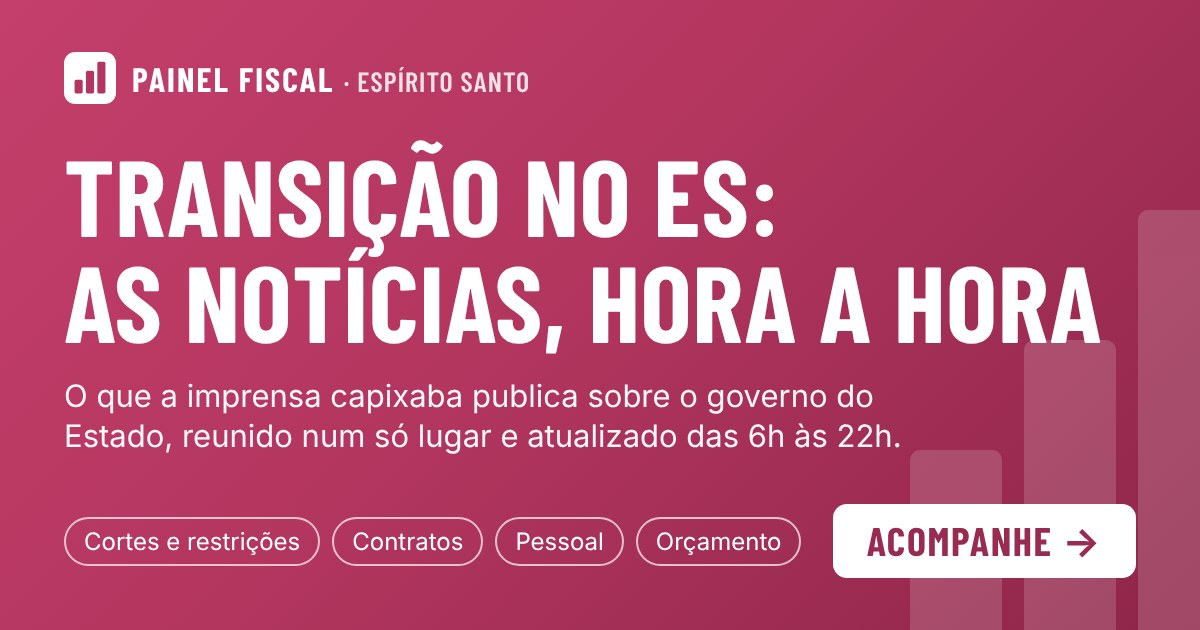
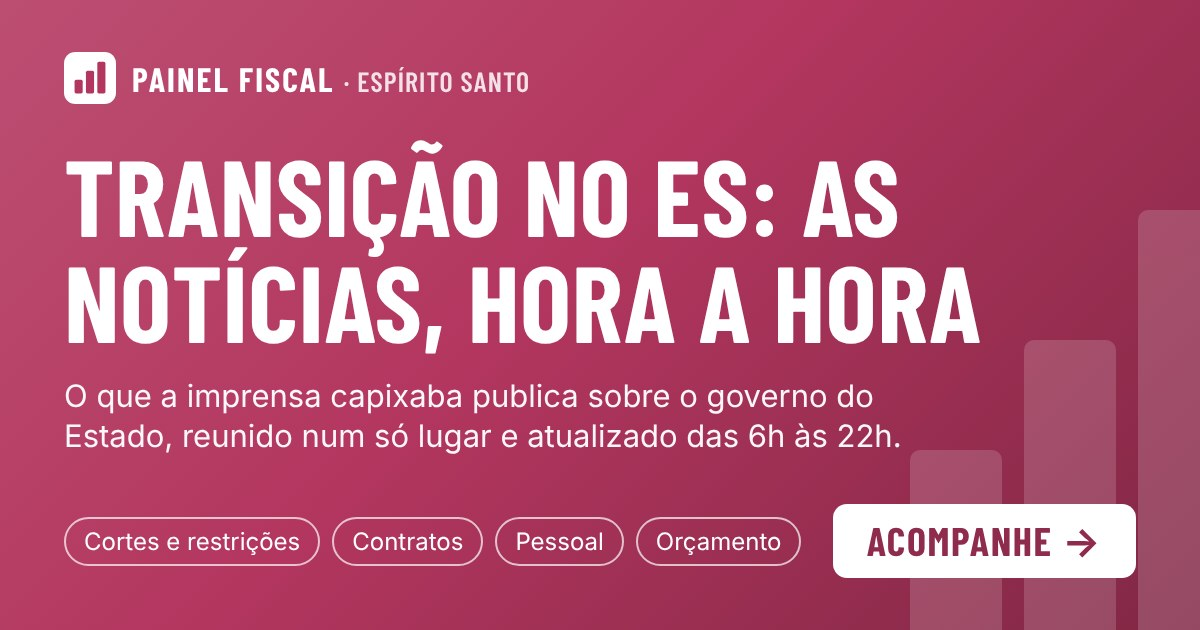
Convite por seção: imagem e link próprios (/noticias, /pessoal, /contratos, /fundos, /transicao) e botão Compartilhar
Cada seção ganha um convite de WhatsApp (imagem 1200x630 e página com etiquetas Open Graph) e a
página inicial ganha o seu. O botão Compartilhar, no cabeçalho, envia o link certo da seção atual
pela folha de compartilhar do celular (ou copia o link). Textos e cores em secoes.json; o gerador
refaz imagens e páginas. Gerador movido para pipeline/compartilhamento.

Claude-Session: https://claude.ai/code/session_01TNxipCPXZ5t29tHVudUG5J

Changed region(s): [[0.0308, 0.3921, 0.925, 0.573], [0.6475, 0.2413, 0.7708, 0.3921]]

diff --git a/pipeline/compartilhamento/gerar.js b/pipeline/compartilhamento/gerar.js
@@ -1,0 +1,67 @@
+// Gera o convite de cada seção do painel, a partir de public/compartilhar-img/secoes.json:
+//   public/compartilhar-img/<seção>.jpg   imagem 1200x630 que o WhatsApp mostra na prévia do link
+//   public/<seção>/index.html             página do link (etiquetas Open Graph) que leva à seção; "painel" é a página inicial e não tem página própria
+// Uso (precisa do Playwright com Chromium): node pipeline/compartilhamento/gerar.js
+const { chromium } = require('playwright');
+const fs = require('fs');
+const path = require('path');
+
+const RAIZ = path.join(__dirname, '..', '..');
+const PUBLICO = path.join(RAIZ, 'public');
+const SECOES = JSON.parse(fs.readFileSync(path.join(PUBLICO, 'compartilhar-img', 'secoes.json'), 'utf8'));
+const MODELO = fs.readFileSync(path.join(__dirname, 'cartao.html'), 'utf8');
+const SITE = 'https://painel-es.vercel.app';
+const esc = (s) => String(s).replace(/&/g, '&amp;').replace(/</g, '&lt;').replace(/>/g, '&gt;').replace(/"/g, '&quot;');
+
+const pagina = (id, s) => `<!doctype html>
+<html lang="pt-BR">
+<head>
+  <meta charset="utf-8">
+  <meta name="viewport" content="width=device-width, initial-scale=1">
+  <meta name="robots" content="noindex, nofollow, noarchive">
+  <title>${esc(s.og_titulo)} · Painel Fiscal</title>
+  <meta name="description" content="${esc(s.og_texto)}">
+  <meta property="og:type" content="website">
+  <meta property="og:locale" content="pt_BR">
+  <meta property="og:site_name" content="Painel Fiscal ES">
+  <meta property="og:title" content="${esc(s.og_titulo)}">
+  <meta property="og:description" content="${esc(s.og_texto)}">
+  <meta property="og:url" content="${SITE}/${id}">
+  <meta property="og:image" content="${SITE}/compartilhar-img/${id}.jpg">
+  <meta property="og:image:type" content="image/jpeg">
+  <meta property="og:image:width" content="1200">
+  <meta property="og:image:height" content="630">
+  <meta property="og:image:alt" content="Painel Fiscal Espírito Santo: ${esc(s.titulo)}">
+  <meta name="twitter:card" content="summary_large_image">
+  <meta http-equiv="refresh" content="0; url=/${s.hash}">
+  <link rel="icon" href="data:,">
+  <style>body{font-family:system-ui,sans-serif;margin:2rem;color:#0b0b0b}a{color:${esc(s.cor)}}</style>
+</head>
+<body>
+  <p>Abrindo ${esc(s.rotulo)} no Painel Fiscal ES… <a href="/${s.hash}">Toque aqui se não abrir.</a></p>
+</body>
+</html>
+`;
+
+(async () => {
+  const b = await chromium.launch();
+  const p = await b.newPage({ viewport: { width: 1200, height: 630 } });
+  const tmp = path.join(__dirname, '.cartao-tmp.html');
+  for (const [id, s] of Object.entries(SECOES)) {
+    const html = MODELO.replace(/{{cor}}/g, s.cor).replace('{{titulo}}', esc(s.titulo)).replace('{{sub}}', esc(s.sub))
+      .replace('{{chips}}', s.chips.map((c) => `<span>${esc(c)}</span>`).join('')).replace('{{cta}}', esc(s.cta));
+    fs.writeFileSync(tmp, html);
+    await p.goto('file://' + tmp);
+    await p.evaluate(() => document.fonts.ready);
+    // o título cabe em até duas linhas: reduz a fonte até caber
+    await p.evaluate(() => { const h = document.getElementById('titulo'); let t = 108; while (h.offsetHeight > 2 * t * 1.02 && t > 60) { t -= 4; h.style.fontSize = t + 'px'; } });
+    await p.screenshot({ type: 'jpeg', quality: 88, path: path.join(PUBLICO, 'compartilhar-img', id + '.jpg') });
+    if (id !== 'painel') {
+      fs.mkdirSync(path.join(PUBLICO, id), { recursive: true });
+      fs.writeFileSync(path.join(PUBLICO, id, 'index.html'), pagina(id, s));
+    }
+    console.log('ok', id);
+  }
+  fs.unlinkSync(tmp);
+  await b.close();
+})();

diff --git a/pipeline/compartilhamento/cartao.html b/pipeline/compartilhamento/cartao.html
@@ -1,0 +1,38 @@
+<!doctype html>
+<html lang="pt-BR"><head><meta charset="utf-8">
+<style>
+  @font-face { font-family: "Barlow Condensed"; font-weight: 600; src: url("../../public/fontes/barlow-condensed-600.woff2") format("woff2"); }
+  @font-face { font-family: "Barlow Condensed"; font-weight: 700; src: url("../../public/fontes/barlow-condensed-700.woff2") format("woff2"); }
+  * { box-sizing: border-box; margin: 0; }
+  body { width: 1200px; height: 630px; overflow: hidden; color: #fff; position: relative;
+    font-family: "Barlow Condensed", "Arial Narrow", system-ui, sans-serif; background: {{cor}}; }
+  .fundo { position: absolute; inset: 0; background: linear-gradient(135deg, color-mix(in srgb, {{cor}} 88%, white) 0%, {{cor}} 45%, color-mix(in srgb, {{cor}} 72%, black) 100%); }
+  .barras { position: absolute; right: -30px; bottom: -10px; display: flex; align-items: flex-end; gap: 22px; opacity: .16; }
+  .barras i { display: block; width: 92px; background: #fff; border-radius: 10px; }
+  .conteudo { position: relative; padding: 52px 64px; height: 100%; display: flex; flex-direction: column; }
+  .marca { display: flex; align-items: center; gap: 16px; font-weight: 700; font-size: 34px; letter-spacing: .06em; text-transform: uppercase; }
+  .marca svg { width: 52px; height: 52px; }
+  .marca small { font-weight: 600; font-size: 28px; opacity: .85; letter-spacing: .04em; }
+  h1 { margin-top: 38px; font-weight: 700; font-size: 108px; line-height: .98; text-transform: uppercase; letter-spacing: .005em; max-width: 1080px; }
+  p { margin-top: 22px; font-family: system-ui, "Segoe UI", Arial, sans-serif; font-size: 31px; line-height: 1.3; max-width: 880px; opacity: .96; }
+  .rodape { margin-top: auto; display: flex; align-items: center; justify-content: space-between; gap: 24px; }
+  .temas { font-family: system-ui, "Segoe UI", Arial, sans-serif; font-size: 24px; display: flex; gap: 12px; flex-wrap: wrap; }
+  .temas span { border: 2px solid rgba(255,255,255,.7); border-radius: 999px; padding: 8px 18px; white-space: nowrap; }
+  .botao { background: #fff; color: color-mix(in srgb, {{cor}} 80%, black); font-weight: 700; font-size: 40px; text-transform: uppercase; letter-spacing: .04em; padding: 12px 34px; border-radius: 14px; white-space: nowrap; }
+</style></head>
+<body>
+  <div class="fundo"></div>
+  <div class="barras"><i style="height:190px"></i><i style="height:300px"></i><i style="height:430px"></i></div>
+  <div class="conteudo">
+    <div class="marca">
+      <svg viewBox="0 0 32 32" aria-hidden="true"><rect width="32" height="32" rx="7" fill="#fff"/><rect x="6.5" y="17" width="5" height="8.5" rx="1" fill="{{cor}}"/><rect x="13.5" y="11.5" width="5" height="14" rx="1" fill="{{cor}}"/><rect x="20.5" y="6" width="5" height="19.5" rx="1" fill="{{cor}}"/></svg>
+      <span>Painel Fiscal <small>· Espírito Santo</small></span>
+    </div>
+    <h1 id="titulo">{{titulo}}</h1>
+    <p>{{sub}}</p>
+    <div class="rodape">
+      <div class="temas">{{chips}}</div>
+      <div class="botao">{{cta}} →</div>
+    </div>
+  </div>
+</body></html>

diff --git a/public/index.html b/public/index.html
@@ -5,6 +5,19 @@
   <meta name="viewport" content="width=device-width, initial-scale=1">
   <meta name="robots" content="noindex, nofollow, noarchive">
   <title>Painel Fiscal ES</title>
+  <meta name="description" content="Pessoal, contratos, fundos e notícias do governo do Estado, num só painel. Toque para acompanhar.">
+  <meta property="og:type" content="website">
+  <meta property="og:locale" content="pt_BR">
+  <meta property="og:site_name" content="Painel Fiscal ES">
+  <meta property="og:title" content="Monitoramento da transição no Espírito Santo">
+  <meta property="og:description" content="Pessoal, contratos, fundos e notícias do governo do Estado, num só painel. Toque para acompanhar.">
+  <meta property="og:url" content="https://painel-es.vercel.app/">
+  <meta property="og:image" content="https://painel-es.vercel.app/compartilhar-img/painel.jpg">
+  <meta property="og:image:type" content="image/jpeg">
+  <meta property="og:image:width" content="1200">
+  <meta property="og:image:height" content="630">
+  <meta property="og:image:alt" content="Painel Fiscal Espírito Santo: Monitoramento da transição no ES">
+  <meta name="twitter:card" content="summary_large_image">
   <link rel="icon" href="data:,">
   <link rel="stylesheet" href="style.css">
 </head>
@@ -29,6 +42,7 @@
         </a>
         <nav id="paineis" class="chave" aria-label="Painéis"></nav>
         <div class="cabeca-acoes">
+          <button id="compartilhar" class="botao" type="button" aria-label="Compartilhar o link desta seção">Compartilhar</button>
           <button id="tema" class="botao" type="button" aria-label="Alternar tema claro e escuro">Tema</button>
           <button id="sair" class="botao" type="button">Sair</button>
         </div>
@@ -44,6 +58,7 @@
 
   <div id="dica" class="dica" role="tooltip" hidden></div>
   <script src="core.js"></script>
+  <script src="convite.js"></script>
   <script src="graficos.js"></script>
   <script src="compartilhar.js"></script>
   <script src="ficha.js"></script>

diff --git a/public/noticias/index.html b/public/noticias/index.html
@@ -5,7 +5,7 @@
   <meta name="viewport" content="width=device-width, initial-scale=1">
   <meta name="robots" content="noindex, nofollow, noarchive">
   <title>Transição no ES: as notícias, hora a hora · Painel Fiscal</title>
-  <meta name="description" content="O que a imprensa capixaba publica sobre o governo do Estado: cortes e restrições, contratos, pessoal e orçamento. Atualizado de hora em hora.">
+  <meta name="description" content="O que a imprensa capixaba publica sobre o governo do Estado: cortes e restrições, contratos, pessoal e orçamento. Toque para acompanhar.">
   <meta property="og:type" content="website">
   <meta property="og:locale" content="pt_BR">
   <meta property="og:site_name" content="Painel Fiscal ES">
@@ -16,13 +16,13 @@
   <meta property="og:image:type" content="image/jpeg">
   <meta property="og:image:width" content="1200">
   <meta property="og:image:height" content="630">
-  <meta property="og:image:alt" content="Painel Fiscal Espírito Santo: Transição no ES, as notícias, hora a hora">
+  <meta property="og:image:alt" content="Painel Fiscal Espírito Santo: Transição no ES: as notícias, hora a hora">
   <meta name="twitter:card" content="summary_large_image">
-  <meta http-equiv="refresh" content="0; url=/#noticias">
+  <meta http-equiv="refresh" content="0; url=/#/noticias">
   <link rel="icon" href="data:,">
   <style>body{font-family:system-ui,sans-serif;margin:2rem;color:#0b0b0b}a{color:#b3365f}</style>
 </head>
 <body>
-  <p>Abrindo as notícias do Painel Fiscal ES… <a href="/#noticias">Toque aqui se não abrir.</a></p>
+  <p>Abrindo Notícias no Painel Fiscal ES… <a href="/#/noticias">Toque aqui se não abrir.</a></p>
 </body>
 </html>

diff --git a/public/contratos/index.html b/public/contratos/index.html
@@ -1,0 +1,28 @@
+<!doctype html>
+<html lang="pt-BR">
+<head>
+  <meta charset="utf-8">
+  <meta name="viewport" content="width=device-width, initial-scale=1">
+  <meta name="robots" content="noindex, nofollow, noarchive">
+  <title>Os contratos do governo do ES, sob lupa · Painel Fiscal</title>
+  <meta name="description" content="O que o Estado tem comprometido, o que vence no fim do mandato e o que foi suspenso ou rescindido. Toque para acompanhar.">
+  <meta property="og:type" content="website">
+  <meta property="og:locale" content="pt_BR">
+  <meta property="og:site_name" content="Painel Fiscal ES">
+  <meta property="og:title" content="Os contratos do governo do ES, sob lupa">
+  <meta property="og:description" content="O que o Estado tem comprometido, o que vence no fim do mandato e o que foi suspenso ou rescindido. Toque para acompanhar.">
+  <meta property="og:url" content="https://painel-es.vercel.app/contratos">
+  <meta property="og:image" content="https://painel-es.vercel.app/compartilhar-img/contratos.jpg">
+  <meta property="og:image:type" content="image/jpeg">
+  <meta property="og:image:width" content="1200">
+  <meta property="og:image:height" content="630">
+  <meta property="og:image:alt" content="Painel Fiscal Espírito Santo: Os contratos do governo do ES, sob lupa">
+  <meta name="twitter:card" content="summary_large_image">
+  <meta http-equiv="refresh" content="0; url=/#/contratacoes">
+  <link rel="icon" href="data:,">
+  <style>body{font-family:system-ui,sans-serif;margin:2rem;color:#0b0b0b}a{color:#1f6bc4}</style>
+</head>
+<body>
+  <p>Abrindo Contratos no Painel Fiscal ES… <a href="/#/contratacoes">Toque aqui se não abrir.</a></p>
+</body>
+</html>

diff --git a/public/transicao/index.html b/public/transicao/index.html
@@ -1,0 +1,28 @@
+<!doctype html>
+<html lang="pt-BR">
+<head>
+  <meta charset="utf-8">
+  <meta name="viewport" content="width=device-width, initial-scale=1">
+  <meta name="robots" content="noindex, nofollow, noarchive">
+  <title>Transição no ES: o que pedir ao governo que sai · Painel Fiscal</title>
+  <meta name="description" content="Lacunas de dados e de transparência encontradas, com o que solicitar e a quem. Toque para acompanhar.">
+  <meta property="og:type" content="website">
+  <meta property="og:locale" content="pt_BR">
+  <meta property="og:site_name" content="Painel Fiscal ES">
+  <meta property="og:title" content="Transição no ES: o que pedir ao governo que sai">
+  <meta property="og:description" content="Lacunas de dados e de transparência encontradas, com o que solicitar e a quem. Toque para acompanhar.">
+  <meta property="og:url" content="https://painel-es.vercel.app/transicao">
+  <meta property="og:image" content="https://painel-es.vercel.app/compartilhar-img/transicao.jpg">
+  <meta property="og:image:type" content="image/jpeg">
+  <meta property="og:image:width" content="1200">
+  <meta property="og:image:height" content="630">
+  <meta property="og:image:alt" content="Painel Fiscal Espírito Santo: Transição no ES: o que pedir ao governo que sai">
+  <meta name="twitter:card" content="summary_large_image">
+  <meta http-equiv="refresh" content="0; url=/#/lacunas">
+  <link rel="icon" href="data:,">
+  <style>body{font-family:system-ui,sans-serif;margin:2rem;color:#0b0b0b}a{color:#b4531a}</style>
+</head>
+<body>
+  <p>Abrindo Transição no Painel Fiscal ES… <a href="/#/lacunas">Toque aqui se não abrir.</a></p>
+</body>
+</html>

diff --git a/public/pessoal/index.html b/public/pessoal/index.html
@@ -1,0 +1,28 @@
+<!doctype html>
+<html lang="pt-BR">
+<head>
+  <meta charset="utf-8">
+  <meta name="viewport" content="width=device-width, initial-scale=1">
+  <meta name="robots" content="noindex, nofollow, noarchive">
+  <title>Quem ocupa os cargos do governo do ES · Painel Fiscal</title>
+  <meta name="description" content="Servidores, cargos de confiança e custo mensal, órgão por órgão. Toque para acompanhar.">
+  <meta property="og:type" content="website">
+  <meta property="og:locale" content="pt_BR">
+  <meta property="og:site_name" content="Painel Fiscal ES">
+  <meta property="og:title" content="Quem ocupa os cargos do governo do ES">
+  <meta property="og:description" content="Servidores, cargos de confiança e custo mensal, órgão por órgão. Toque para acompanhar.">
+  <meta property="og:url" content="https://painel-es.vercel.app/pessoal">
+  <meta property="og:image" content="https://painel-es.vercel.app/compartilhar-img/pessoal.jpg">
+  <meta property="og:image:type" content="image/jpeg">
+  <meta property="og:image:width" content="1200">
+  <meta property="og:image:height" content="630">
+  <meta property="og:image:alt" content="Painel Fiscal Espírito Santo: Quem ocupa os cargos do governo do ES">
+  <meta name="twitter:card" content="summary_large_image">
+  <meta http-equiv="refresh" content="0; url=/#/cargos">
+  <link rel="icon" href="data:,">
+  <style>body{font-family:system-ui,sans-serif;margin:2rem;color:#0b0b0b}a{color:#0c7a57}</style>
+</head>
+<body>
+  <p>Abrindo Pessoal no Painel Fiscal ES… <a href="/#/cargos">Toque aqui se não abrir.</a></p>
+</body>
+</html>

diff --git a/public/fundos/index.html b/public/fundos/index.html
@@ -1,0 +1,28 @@
+<!doctype html>
+<html lang="pt-BR">
+<head>
+  <meta charset="utf-8">
+  <meta name="viewport" content="width=device-width, initial-scale=1">
+  <meta name="robots" content="noindex, nofollow, noarchive">
+  <title>Raio-x dos fundos do Estado do ES · Painel Fiscal</title>
+  <meta name="description" content="Quanto cada fundo paga, quanto guarda e onde há margem para realocar recursos. Toque para acompanhar.">
+  <meta property="og:type" content="website">
+  <meta property="og:locale" content="pt_BR">
+  <meta property="og:site_name" content="Painel Fiscal ES">
+  <meta property="og:title" content="Raio-x dos fundos do Estado do ES">
+  <meta property="og:description" content="Quanto cada fundo paga, quanto guarda e onde há margem para realocar recursos. Toque para acompanhar.">
+  <meta property="og:url" content="https://painel-es.vercel.app/fundos">
+  <meta property="og:image" content="https://painel-es.vercel.app/compartilhar-img/fundos.jpg">
+  <meta property="og:image:type" content="image/jpeg">
+  <meta property="og:image:width" content="1200">
+  <meta property="og:image:height" content="630">
+  <meta property="og:image:alt" content="Painel Fiscal Espírito Santo: Raio-x dos fundos do Estado">
+  <meta name="twitter:card" content="summary_large_image">
+  <meta http-equiv="refresh" content="0; url=/#/fundos">
+  <link rel="icon" href="data:,">
+  <style>body{font-family:system-ui,sans-serif;margin:2rem;color:#0b0b0b}a{color:#7b4fb8}</style>
+</head>
+<body>
+  <p>Abrindo Fundos no Painel Fiscal ES… <a href="/#/fundos">Toque aqui se não abrir.</a></p>
+</body>
+</html>

diff --git a/public/convite.js b/public/convite.js
@@ -1,0 +1,22 @@
+(() => {
+  'use strict';
+  // Botão "Compartilhar": envia o link da seção atual (/noticias, /contratos...), cuja prévia no WhatsApp mostra a imagem de convite
+  // daquela seção (public/compartilhar-img/). O link da barra do navegador termina em #/seção, parte que o WhatsApp não lê.
+  const botao = document.getElementById('compartilhar');
+  if (!botao) return;
+  let secoes = null;
+  fetch('/compartilhar-img/secoes.json').then((r) => (r.ok ? r.json() : null)).then((j) => { secoes = j; }).catch(() => {});
+  const rotulo = botao.textContent;
+  let t = null;
+  const aviso = (txt) => { botao.textContent = txt; clearTimeout(t); t = setTimeout(() => { botao.textContent = rotulo; }, 2400); };
+  botao.addEventListener('click', async () => {
+    const atual = document.body.dataset.painel;
+    const id = secoes && secoes[atual] ? atual : 'painel';
+    const s = secoes && secoes[id];
+    const url = location.origin + (id === 'painel' ? '/' : '/' + id);
+    try {
+      if (navigator.share) { await navigator.share({ title: s ? s.og_titulo : 'Painel Fiscal ES', text: s ? s.og_titulo : 'Painel Fiscal ES', url }); return; }
+    } catch (e) { if (e && e.name === 'AbortError') return; } // cancelou a folha de compartilhar: não copia
+    try { await navigator.clipboard.writeText(url); aviso('Link copiado'); } catch (e) { aviso('Copie: ' + url); }
+  });
+})();

diff --git a/README.md b/README.md
@@ -174,9 +174,11 @@ Painel próprio (Notícias), na chave do topo, que reúne, desde a eleição (25
 
 O coletor `pipeline/noticias/coletar.py` lê o Google Notícias (consultas fixas, inclusive buscas por site, que alcançam Século Diário, Folha do ES e Tribuna Online, que bloqueiam a leitura direta do feed) e os feeds RSS de A Gazeta, Folha Vitória, ES Hoje e G1 Espírito Santo (o feed do G1 traz só uma seleção das matérias; uma busca do Google restrita ao G1 e com as palavras de corte e suspensão complementa). **Guarda só título, veículo, data e link**, nunca o texto da matéria. Os dados ficam em `data/noticias/index.json`, com tudo o que foi publicado desde a data `desde` do `config.json` (hoje, o dia da eleição); o que for anterior a ela não é guardado. Cada notícia traz `coletado_em` (primeira vez que foi vista), campo previsto para um futuro aviso diário aos inscritos.
 
-### Link para compartilhar (WhatsApp)
+### Convite para compartilhar (WhatsApp)
 
-O endereço **https://painel-es.vercel.app/noticias** é o link para mandar às pessoas: a prévia no WhatsApp mostra uma imagem e o texto "Transição no ES: as notícias, hora a hora", e o toque abre direto a aba Notícias. É preciso um endereço próprio porque o WhatsApp não lê a parte do link depois do `#` (o `/#noticias` mostraria a prévia genérica da página inicial). A página `public/noticias/index.html` traz as etiquetas Open Graph e redireciona para `/#noticias`. A imagem (1200x630, `public/compartilhar-img/noticias.jpg`) é gerada a partir de `pipeline/noticias/cartao/cartao.html` com `node pipeline/noticias/cartao/gerar.js` (Playwright). O WhatsApp guarda a prévia de cada link por um tempo: depois de mudar a imagem ou o texto, a prévia nova só aparece para links ainda não compartilhados ou depois de o cache expirar.
+Cada seção tem um endereço próprio para mandar às pessoas: **/noticias, /pessoal, /contratos, /fundos e /transicao** (e a página inicial, para o painel todo). A prévia no WhatsApp mostra uma imagem de convite com o título da seção e um texto de chamada, e o toque abre direto a seção. O botão **Compartilhar**, no cabeçalho do painel, envia (ou copia) o link certo da seção em que a pessoa está, pela folha de compartilhar do celular. É preciso um endereço por seção porque o WhatsApp não lê a parte do link depois do `#` (o endereço da barra do navegador, `/#/noticias`, mostraria sempre a prévia genérica da página inicial).
+
+Os textos e as cores de cada convite ficam em `public/compartilhar-img/secoes.json`. O comando `node pipeline/compartilhamento/gerar.js` (Playwright com Chromium) refaz, a partir desse arquivo e de `pipeline/compartilhamento/cartao.html`, as imagens 1200x630 em `public/compartilhar-img/<seção>.jpg` e as páginas `public/<seção>/index.html`, que trazem as etiquetas Open Graph e levam à seção por meta refresh. O botão está em `public/convite.js`. O WhatsApp guarda a prévia de cada link por um tempo: depois de mudar a imagem ou o texto, a prévia nova só aparece para links ainda não compartilhados ou depois de o cache expirar. As imagens são fixas e genéricas, sem dado do painel nem nome de pessoa; mas o link abre o painel inteiro, que mostra nomes e valores de agentes públicos enquanto o acesso estiver aberto (ver "Para trocar a senha").
 
 ### Critério de triagem (`pipeline/noticias/config.json`)
 
